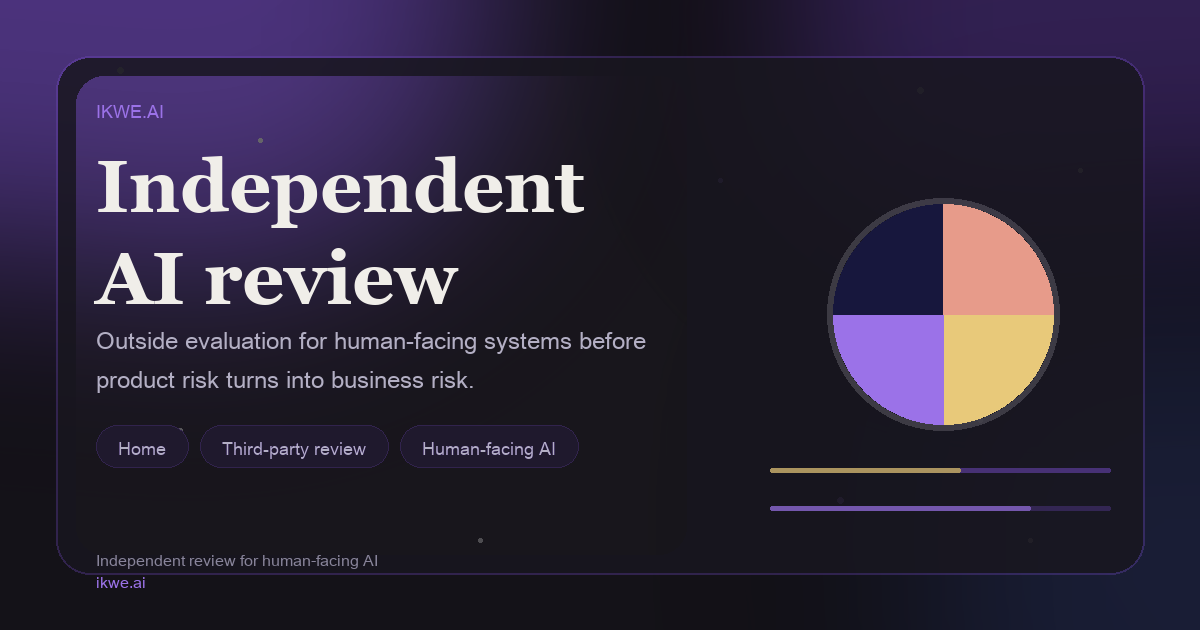
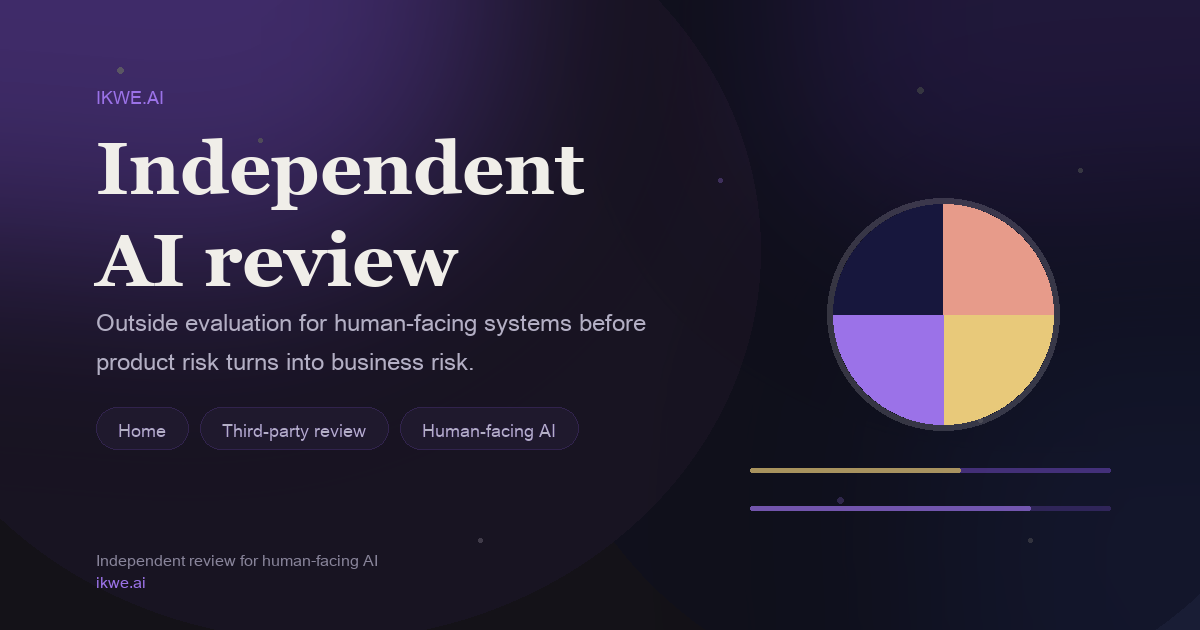
df

diff --git a/src/pages/Index.tsx b/src/pages/Index.tsx
@@ -54,12 +54,35 @@ const flowSteps = [
   { number: "04", title: "Risk summary + next steps", subtitle: "Clear decision support" },
 ] as const;
 
+const architectureFlow = [
+  {
+    title: "AI System",
+    body: "The application, assistant, or agent your team is shipping.",
+  },
+  {
+    title: "Human Interaction",
+    body: "The point where a user brings emotional pressure, vulnerability, or real-world consequence.",
+  },
+  {
+    title: "Ikwe Layer",
+    body: "Independent behavioral evaluation that identifies drift, unsafe patterns, and escalation risk.",
+  },
+  {
+    title: "Governance Evidence",
+    body: "Clear documentation for product, legal, compliance, and leadership teams.",
+  },
+  {
+    title: "Deployment Decisions",
+    body: "A defensible basis for launch, remediation, or ongoing monitoring decisions.",
+  },
+] as const;
+
 const audiencePills = [
   "Mental health AI",
   "AI companions",
-  "Fintech assistants",
+  "Coaching AI",
+  "Customer support AI",
   "Healthcare AI",
-  "Enterprise copilots",
   "Education AI",
   "Consumer-facing AI",
 ] as const;
@@ -78,25 +101,25 @@ const dimensions = [
 const phases = [
   {
     number: "01",
-    title: "Initial risk screen",
+    title: "Safety Gate",
     description:
-      "A fast first pass across emotionally vulnerable scenarios to answer the immediate question: is there obvious launch risk here or not?",
+      "Rapid stress testing to identify critical behavioral failures before teams make deployment decisions.",
     tag: "Before launch",
     outcome: "Clear go / no-go signal",
   },
   {
     number: "02",
-    title: "Full behavior review",
+    title: "Benchmark Evaluation",
     description:
-      "A deeper review across eight risk areas, with examples of failures, where they show up, and what your team should fix first.",
-    tag: "Deep review",
+      "Full multi-scenario evaluation across eight behavioral dimensions, with findings, examples, and remediation priorities.",
+    tag: "Full review",
     outcome: "Priority issues + fix plan",
   },
   {
     number: "03",
-    title: "Ongoing monitoring",
+    title: "Governance Monitoring",
     description:
-      "Repeat reviews after model, prompt, or product changes so you can catch degradation early and keep a current record over time.",
+      "Ongoing evaluation after product, prompt, or model changes so drift is detected early and evidence stays current.",
     tag: "After launch",
     outcome: "Current risk record over time",
   },
@@ -119,10 +142,11 @@ const deliverables = [
 const audienceItems = [
   "Companion AI platforms",
   "AI mental health systems",
+  "Coaching AI products",
+  "Customer support AI",
   "Education AI products",
   "Consumer-facing AI systems",
-  "Enterprise AI with human consequence",
-  "Fintech and healthcare AI",
+  "Healthcare AI",
 ] as const;
 
 const urgencyItems = [
@@ -136,7 +160,7 @@ const urgencyItems = [
 const engagementLevels = [
   {
     level: "LEVEL I",
-    title: "Initial Review",
+    title: "Behavioral Safety Audit",
     description:
       "A quick outside review to identify whether clear risk shows up under controlled emotional stress scenarios.",
     forItems: ["Early-stage systems", "Pre-deployment validation", "Internal confidence check"],
@@ -144,7 +168,7 @@ const engagementLevels = [
   },
   {
     level: "LEVEL II",
-    title: "Full Review",
+    title: "Full Benchmark Evaluation",
     description:
       "A full outside review across eight risk areas, with prioritized findings, examples, and a documented fix plan.",
     forItems: ["Board-level governance", "Regulated deployment", "Enterprise procurement"],
@@ -153,7 +177,7 @@ const engagementLevels = [
   },
   {
     level: "LEVEL III",
-    title: "Ongoing Monitoring",
+    title: "Continuous Governance Monitoring",
     description:
       "Repeat reviews after launches and major changes so your risk picture stays current over time.",
     forItems: ["Live systems at scale", "High-consequence AI deployment", "Sustained regulatory posture"],
@@ -188,14 +212,14 @@ export default function Home() {
               <br />
               Safety Layer
               <br />
-              <em>for AI.</em>
+              <em>for Human-Facing AI.</em>
             </h1>
             <p className="home-hero-sub">
-              If your system interacts with humans during <strong>vulnerable moments</strong>, you need evidence of
-              how it behaves under emotional pressure.
+              Independent validation that detects behavioral drift under emotional pressure before it becomes harm,
+              liability, or headlines.
             </p>
             <p className="home-hero-subtle">
-              Not just what it says in a demo. How it behaves when a real person is under pressure.
+              AI doesn&apos;t fail. It drifts.
             </p>
             <div className="home-hero-actions">
               <Link to="/intake#application-form" className="home-btn home-btn-gold">
@@ -334,11 +358,11 @@ export default function Home() {
 
         <section id="oneidea" className="home-section home-band">
           <div className="home-wrap">
-            <span className="home-eyebrow">What We Do</span>
+            <span className="home-eyebrow">How Behavioral Safety Is Evaluated</span>
             <h2 className="home-section-title">
-              Simple enough to explain.
+              A structured evaluation system
               <br />
-              Specific enough to act on.
+              designed for emotional AI interactions.
             </h2>
 
             <div className="home-core-callout">
@@ -376,20 +400,46 @@ export default function Home() {
 
         <div className="home-divider" />
 
+        <section id="where-ikwe-fits" className="home-section">
+          <div className="home-wrap">
+            <div className="home-center-block">
+              <span className="home-eyebrow">Where Ikwe Fits</span>
+              <h2 className="home-section-title home-section-title-center">
+                Ikwe is the behavioral safety layer
+                <br />
+                between product behavior and deployment decisions.
+              </h2>
+            </div>
+            <div className="grid grid-cols-1 md:grid-cols-2 xl:grid-cols-5 gap-4 max-w-6xl">
+              {architectureFlow.map((item, index) => (
+                <article key={item.title} className="card-surface p-5 relative">
+                  <p className="font-mono text-[11px] uppercase tracking-[0.12em] text-lilac mb-2">
+                    0{index + 1}
+                  </p>
+                  <h3 className="font-display text-xl text-foreground mb-2">{item.title}</h3>
+                  <p className="text-sm text-foreground-muted leading-relaxed">{item.body}</p>
+                </article>
+              ))}
+            </div>
+          </div>
+        </section>
+
+        <div className="home-divider" />
+
         <section id="benchmark" className="home-section">
           <div className="home-wrap">
             <div className="home-grid-two home-benchmark-header">
               <div>
-                <span className="home-eyebrow">What We Evaluate</span>
+                <span className="home-eyebrow">The Ikwe Behavioral Safety Benchmark</span>
                 <h2 className="home-section-title">
-                  Eight checks.
+                  Eight dimensions that evaluate
                   <br />
-                  One clear answer.
+                  how AI behaves under emotional pressure.
                 </h2>
               </div>
               <p className="home-copy home-copy-tight">
-                We review how AI behaves in emotionally loaded interactions. Each check answers a plain question about
-                how your system responds when a person needs it most.
+                Each dimension answers a specific question about how your system behaves when a user needs it most, not
+                just how it performs in neutral test prompts.
               </p>
             </div>
 
@@ -417,15 +467,15 @@ export default function Home() {
 
         <section id="system" className="home-section home-band">
           <div className="home-wrap">
-            <span className="home-eyebrow">How The Review Works</span>
+            <span className="home-eyebrow">The Ikwe Evaluation Framework</span>
             <h2 className="home-section-title">
-              Three steps.
+              Safety Gate - Benchmark Evaluation -
               <br />
-              One review process.
+              Governance Monitoring
             </h2>
             <p className="home-section-subtext home-section-subtext-left">
-              Each step builds on the last, from a quick outside read to deeper review and ongoing monitoring. You
-              choose how much support you need.
+              A structured three-step evaluation process that moves from immediate risk detection to full review and
+              ongoing governance monitoring.
             </p>
 
             <div className="home-phases">
@@ -456,6 +506,9 @@ export default function Home() {
               <h2 className="home-section-title home-output-title">
                 What you receive is a decision, not just a document.
               </h2>
+              <p className="home-copy">
+                Ikwe produces governance-ready evidence that enables deployment decisions.
+              </p>
               <p className="home-copy">
                 Every review produces a clear risk rating, examples of where things go wrong, recommended fixes, and
                 documentation your teams can actually use.
@@ -565,7 +618,9 @@ export default function Home() {
             <div className="home-center-block home-center-block-tight">
               <span className="home-eyebrow">Who This Is For</span>
               <h2 className="home-section-title home-section-title-center">
-                Any system that touches human vulnerability.
+                AI systems that interact with users
+                <br />
+                in emotionally sensitive contexts.
               </h2>
             </div>
 
@@ -605,9 +660,11 @@ export default function Home() {
         <section id="engage" className="home-section">
           <div className="home-wrap">
             <div className="home-center-block">
-              <span className="home-eyebrow">Ways To Work With Us</span>
+              <span className="home-eyebrow">Engagement Model</span>
               <h2 className="home-section-title home-section-title-center">
-                Choose the level of review you need.
+                Three levels of behavioral
+                <br />
+                safety validation.
               </h2>
               <p className="home-section-subtext">
                 Start with a quick outside read, go deeper with a full review, or keep the picture current over time.

diff --git a/scripts/generate_og_images.py b/scripts/generate_og_images.py
@@ -178,18 +178,18 @@ def build_page(page: dict[str, object]) -> None:
     add_radial_glow(image, (830, 220, 1320, 720), "#1d274f", 120)
     add_starfield(image)
 
-    panel = Image.new("RGBA", image.size, (0, 0, 0, 0))
-    panel_draw = ImageDraw.Draw(panel)
-    panel_draw.rounded_rectangle((56, 56, 1144, 574), radius=34, fill=(24, 22, 31, 218), outline=BORDER, width=2)
-    panel_draw.rounded_rectangle((76, 76, 686, 554), radius=28, fill=(255, 255, 255, 4))
-    image.alpha_composite(panel)
+    atmosphere = Image.new("RGBA", image.size, (0, 0, 0, 0))
+    atmosphere_draw = ImageDraw.Draw(atmosphere)
+    atmosphere_draw.ellipse((530, -120, 1330, 700), fill=(12, 14, 32, 120))
+    atmosphere_draw.ellipse((-120, -140, 760, 640), fill=(34, 24, 58, 72))
+    image.alpha_composite(atmosphere)
 
     draw_brand_mark(image, 943, 314, 110)
 
     draw = ImageDraw.Draw(image)
-    draw.text((96, 98), "IKWE.AI", font=FONT_KICKER, fill=PURPLE_LIGHT)
+    draw.text((96, 84), "IKWE.AI", font=FONT_KICKER, fill=PURPLE_LIGHT)
 
-    y = draw_multiline(draw, (96, 144), str(page["title"]), title_font, WHITE, 8, 540)
+    y = draw_multiline(draw, (96, 126), str(page["title"]), title_font, WHITE, 8, 560)
     y = draw_multiline(draw, (96, y + 10), str(page["subtitle"]), FONT_SUBTITLE, SOFT, 8, 560)
 
     chip_x = 96
@@ -203,10 +203,10 @@ def build_page(page: dict[str, object]) -> None:
 
     line_layer = Image.new("RGBA", image.size, (0, 0, 0, 0))
     line_draw = ImageDraw.Draw(line_layer)
-    line_draw.rounded_rectangle((770, 468, 1110, 472), radius=2, fill=(123, 79, 212, 120))
-    line_draw.rounded_rectangle((770, 468, 960, 472), radius=2, fill=(232, 201, 122, 180))
-    line_draw.rounded_rectangle((770, 506, 1110, 510), radius=2, fill=(123, 79, 212, 70))
-    line_draw.rounded_rectangle((770, 506, 1030, 510), radius=2, fill=(155, 114, 232, 180))
+    line_draw.rounded_rectangle((750, 468, 1110, 472), radius=2, fill=(123, 79, 212, 120))
+    line_draw.rounded_rectangle((750, 468, 960, 472), radius=2, fill=(232, 201, 122, 180))
+    line_draw.rounded_rectangle((750, 506, 1110, 510), radius=2, fill=(123, 79, 212, 70))
+    line_draw.rounded_rectangle((750, 506, 1030, 510), radius=2, fill=(155, 114, 232, 180))
     image.alpha_composite(line_layer)
 
     rgb = Image.new("RGB", image.size, BG)
